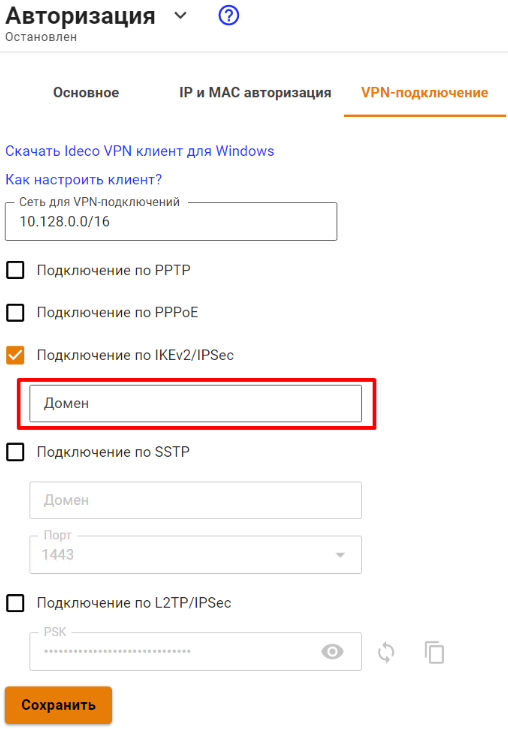
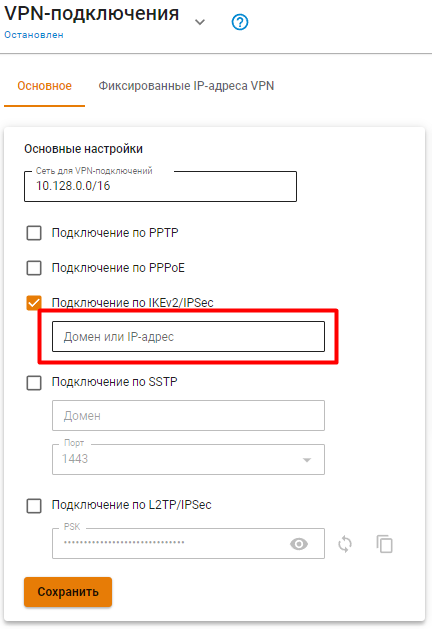
ICS-26068 Поправить текстовку для IKEv2

diff --git a/recipes/popular-recipes/vpn/connection-for-astra-linux.md b/recipes/popular-recipes/vpn/connection-for-astra-linux.md
@@ -10,7 +10,7 @@
 
 Перед созданием подключения в Astra Linux, настройте Ideco UTM:
 
-1\. Перейдите в раздел **Пользователи -&gt; Авторизация -&gt; VPN-подключение**.
+1\. Перейдите в раздел **Пользователи -&gt; VPN-подключение -&gt; Основное**.
 
 2\. Установите флаг в строке нужным подключением и, если требуется, заполните дополнительные поля или скопируйте **PSK**-ключ.
 
@@ -44,7 +44,7 @@
 
 6\. Заполните поля:
 
-* **Pre-shared key** -  PSK-ключ из настроек Ideco UTM (**Пользователи -&gt; Авторизация -&gt; VPN-подключение**)
+* **Pre-shared key** -  PSK-ключ из настроек Ideco UTM (**Пользователи -&gt; VPN-подключение -&gt; Основное**)
 * **Phase1** - алгоритм aes256-sha512-modp2048,aes256-sha512-modp1024,aes256-sha1-ecp256,aes256-sha1-modp2048,aes256-sha1-modp1024! \*
 * **Phase2** - алгоритмы aes256-sha512-modp2048,aes256-sha256-modp2048,aes256-sha1-modp2048,aes128-sha1-modp2048,aes256-sha512-modp1024,aes256-sha256-modp1024,aes256-sha1-modp1024,aes128-sha1-modp1024,aes256-sha512,aes256-sha256,aes256-sha1,aes128-sha1! \* 
   
@@ -64,19 +64,14 @@
 
 <summary>Протокол IKEv2/IPSec</summary>
 
-Перед созданием подключения в Astra Linux, скачайте корневой сертификат одним из способов:
+Перед настройкой подключения по протоколу IKEv2 установите корневой сертификат UTM на устройство пользователя. Скачать сертификат можно одним из способов:
 
-* В личном кабинете, введя логин/пароль пользователя:
-  
+*   В личном кабинете, введя логин/пароль пользователя:
+
     ![](../../../.gitbook/assets/ubuntu16.png)
+*   В разделе **Сервисы -> Сертификаты**:
 
-* В разделе **Сервисы -&gt; Сертификаты**:
-    
-    ![](../../../.gitbook/assets/certificates.png)
-
-Корневой сертификат потребуется для настройки подключения рабочей станции пользователя, если не был получен корневой сертификат через Lets Encrypt. При необходимости перенесите файл сертификата на рабочую станцию.
-
-Если для VPN-подключения используется сертификат выданный Let`s Encrypt, то установка корневого сертификата на устройство не требуется.
+    ![](../../../.gitbook/assets/certificates2.png)
 
 **Создание подключения в Astra Linux**
 
@@ -100,7 +95,7 @@
 5\. В разделе **VPN** и заполните следующие поля:
 
 * **Имя соединения** - имя подключения
-* **Address** - введите домен, который указан в настройках **Пользователи -&gt; Авторизация -&gt; VPN-подключение -&gt; Подключение по IKEv2/IPSec**
+* **Address** - введите домен, который указан в настройках **Пользователи -&gt; VPN-подключение -&gt; Основное -&gt; Подключение по IKEv2/IPSec**
 * **Certificate** - выберите ранее сохраненный корневой сертификат (если он не был выдан Let`s Encrypt)
 * **Authentication** - рекомендуем выбрать EAP
 * **Username** - имя пользователя, которому разрешено подключение по VPN

diff --git a/settings/users/authorization/vpn-connection/ipsec-ikev2.md b/settings/users/authorization/vpn-connection/ipsec-ikev2.md
@@ -12,15 +12,28 @@
 
 ## Настройка VPN-сервера в Ideco UTM
 
-1\. Для включения авторизации по IKEv2 установите соответствующий флаг **Подключение по IKEv2/IPSec** в разделе веб-интерфейса **Пользователи -> Авторизация пользователей -> VPN-подключение**.
+Для настройки подключения тебуется скачайте и установите корневой сертификат UTM на компьютер пользователя одним из способов:
 
-2\. Передача маршрутов клиентам до ваших локальных сетей происходит автоматически. Для управления доступом к сетям используйте [Файрвол](../../../access-rules/firewall.md).
+*   В личном кабинете, введя логин/пароль пользователя:
 
-3\. Подключение возможно только по доменному имени (не по IP-адресу), поэтому необходимо иметь доменное имя, которое резолвится в IP-адрес внешнего интерфейса Ideco UTM. В поле **Домен** необходимо указать это DNS-имя. Оно необходимо для выписки сертификата Let’s Encrypt.
+    ![](../../../../.gitbook/assets/ubuntu16.png)
+*   В разделе **Сервисы -> Сертификаты**:
+
+    ![](../../../../.gitbook/assets/certificates2.png)
+
+Корневой сертификат потребуется для настройки подключения рабочей станции пользователя, если не был получен корневой сертификат через Let\`s Encrypt. \
+Если для VPN-подключения используется сертификат выданный Let\`s Encrypt, то установка корневого сертификата на устройство не требуется.
+
+1\. Для включения авторизации по IKEv2 установите соответствующий флаг **Подключение по IKEv2/IPSec** в разделе веб-интерфейса **Пользователи -> VPN-подключение -> Основное**.
+
+2\. В соответствующем поле укажите доменное имя или IP-адрес и нажмите **Сохранить**. 
 
 ![](../../../../.gitbook/assets/domain.png)
 
-4\. У пользователей, которым необходимо подключаться извне по VPN установите флаг **Разрешить удаленный доступ через VPN** в дереве пользователей. Указанный там логин и пароль будут использоваться для подключения.
+3\. У пользователей, которым необходимо подключаться извне по VPN установите флаг **Разрешить удаленный доступ через VPN** в дереве пользователей. Указанный там логин и пароль будут использоваться для подключения.
+
+4\. Передача маршрутов клиентам до ваших локальных сетей происходит автоматически. Для управления доступом к сетям используйте [Файрвол](../../../access-rules/firewall.md).
+
 
 ## Поддержка IPSec IKEv2 в клиентских ОС
 

diff --git a/recipes/popular-recipes/vpn/auto-connect.md b/recipes/popular-recipes/vpn/auto-connect.md
@@ -126,7 +126,7 @@ Add-VpnConnection `
 
 Пользователю при первой авторизации необходимо ввести свой логин/пароль.
 
-#### Возможные ошибки при выполнении скрипта
+**Возможные ошибки при выполнении скрипта**
 
 При ошибке «Выполнение сценариев отключено в этой системе», нужно включить выполнение сценарием, выполнив команду в PowerShell: `Set-ExecutionPolicy Unrestricted`.
 
@@ -136,7 +136,19 @@ Add-VpnConnection `
 
 <summary>Протокол IPSec IKEv2</summary>
 
-Вы можете запустить скрипт PowerShell для автоматического создания подключения на компьютерах пользователей с Windows 8.1 и 10. Для этого скачайте готовый скрипт из раздела **Пользователи -> VPN-подключение -> Основное**.
+Запустить скрипт PowerShell для автоматического создания подключения на компьютерах пользователей с Windows 8.1 и 10, скачав готовый скрипт из раздела **Пользователи -> VPN-подключение -> Основное**.
+
+Перед настройкой подключения по протоколу IKEv2 установите корневой сертификат UTM на устройство пользователя. Скачать сертификат можно одним из способов:
+
+*   В личном кабинете, введя логин/пароль пользователя:
+
+    ![](../../../.gitbook/assets/ubuntu16.png)
+*   В разделе **Сервисы -> Сертификаты**:
+
+    ![](../../../.gitbook/assets/certificates2.png)
+
+Корневой сертификат потребуется для настройки подключения рабочей станции пользователя, если не был получен корневой сертификат через Let\`s Encrypt. \
+Если для VPN-подключения используется сертификат выданный Let\`s Encrypt, то установка корневого сертификата на устройство не требуется.
 
 **Подключение с помощью скрипта будет создано со следующими параметрами:**
 

diff --git a/recipes/popular-recipes/vpn/connection-for-mobile-devices.md b/recipes/popular-recipes/vpn/connection-for-mobile-devices.md
@@ -1,9 +1,16 @@
 # Инструкция по созданию VPN-подключения на мобильных устройствах
 
 {% hint style="info" %}
-Перед настройкой VPN-подключения, в дереве пользователей откройте карточку нужного пользователя и установите флаг **Разрешить удаленный доступ через VPN**. Для этого перейдите в раздел **Пользователи -> Учетные записи**:
+Перед настройкой VPN-подключения, в дереве пользователей откройте карточку нужного пользователя и установите флаг **Разрешить удаленный доступ через VPN**. Для этого перейдите в раздел **Пользователи -> Учетные записи**.
 
-<img src="../../../.gitbook/assets/ubuntu15.png" alt="" data-size="original">
+Перед настройкой подключения по протоколу IKEv2 установите корневой сертификат UTM на устройство пользователя. Скачать сертификат можно одним из способов:
+
+*   В личном кабинете, введя логин/пароль пользователя:
+
+    ![](../../../.gitbook/assets/ubuntu16.png)
+*   В разделе **Сервисы -> Сертификаты**:
+
+    ![](../../../.gitbook/assets/certificates2.png)
 {% endhint %}
 
 {% hint style="warning" %}

diff --git a/recipes/popular-recipes/vpn/connection-for-high-sierra-macos.md b/recipes/popular-recipes/vpn/connection-for-high-sierra-macos.md
@@ -1,9 +1,16 @@
 # Инструкция по созданию подключения в Mac OS
 
 {% hint style="info" %}
-Перед настройкой VPN-подключения, в дереве пользователей откройте карточку нужного пользователя и установите флаг **Разрешить удаленный доступ через VPN**. Для этого перейдите в раздел **Пользователи -> Учетные записи**:
+Перед настройкой VPN-подключения, в дереве пользователей откройте карточку нужного пользователя и установите флаг **Разрешить удаленный доступ через VPN**. Для этого перейдите в раздел **Пользователи -> Учетные записи**.
 
-<img src="../../../.gitbook/assets/ubuntu15.png" alt="" data-size="original">
+Перед настройкой подключения по протоколу IKEv2 установите корневой сертификат UTM на устройство пользователя. Скачать сертификат можно одним из способов:
+
+*   В личном кабинете, введя логин/пароль пользователя:
+
+    ![](../../../.gitbook/assets/ubuntu16.png)
+*   В разделе **Сервисы -> Сертификаты**:
+
+    ![](../../../.gitbook/assets/certificates2.png)
 {% endhint %}
 
 {% hint style="warning" %}

diff --git a/recipes/popular-recipes/vpn/connection-for-windows10.md b/recipes/popular-recipes/vpn/connection-for-windows10.md
@@ -2,6 +2,15 @@
 
 {% hint style="info" %}
 Перед настройкой VPN-подключения, в дереве пользователей откройте карточку нужного пользователя и установите флаг **Разрешить удаленный доступ через VPN**. Для этого перейдите в раздел **Пользователи -> Учетные записи**.
+
+Перед настройкой подключения по протоколу IKEv2 установите корневой сертификат UTM на устройство пользователя. Скачать сертификат можно одним из способов:
+
+*   В личном кабинете, введя логин/пароль пользователя:
+
+    ![](../../../.gitbook/assets/ubuntu16.png)
+*   В разделе **Сервисы -> Сертификаты**:
+
+    ![](../../../.gitbook/assets/certificates2.png)
 {% endhint %}
 
 {% hint style="warning" %}
@@ -102,6 +111,8 @@
 <details>
 
 <summary>Для IKEv2</summary>
+
+
 
 * Имя подключения - название создаваемого подключения;
 * Имя или адрес сервера - адрес VPN-сервера;

diff --git a/recipes/popular-recipes/vpn/connection-for-ubuntu.md b/recipes/popular-recipes/vpn/connection-for-ubuntu.md
@@ -62,7 +62,7 @@
 
 1\. Перейдите в раздел **Пользователи -> VPN-подключение -> Основное**.
 
-2\. Установите флаг **Подключение по IKEv2/IPSec** и заполните поле **Домен**:
+2\. Установите флаг **Подключение по IKEv2/IPSec** и заполните поле **Домен и IP-адрес**:
 
 <img src="../../../.gitbook/assets/ipsec-ikev2-9-11.png" alt="" data-size="original">
 
@@ -70,7 +70,7 @@
 
 *   В личном кабинете, введя логин/пароль пользователя:
 
-    <img src="../../../.gitbook/assets/ubuntu16.png" alt="" data-size="original">
+    ![](../../../.gitbook/assets/ubuntu16.png)
 *   В разделе **Сервисы -> Сертификаты**:
 
     <img src="../../../.gitbook/assets/certificates2.png" alt="" data-size="original">
